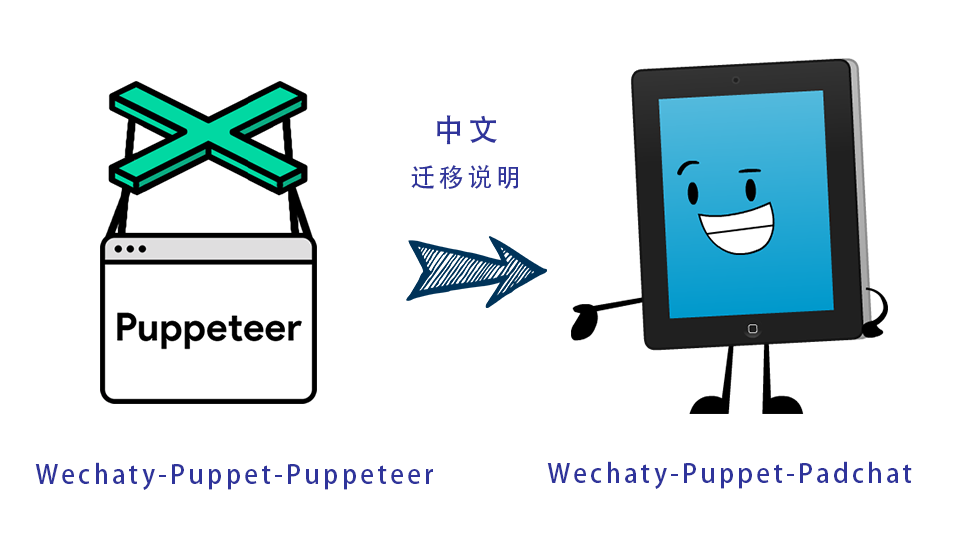
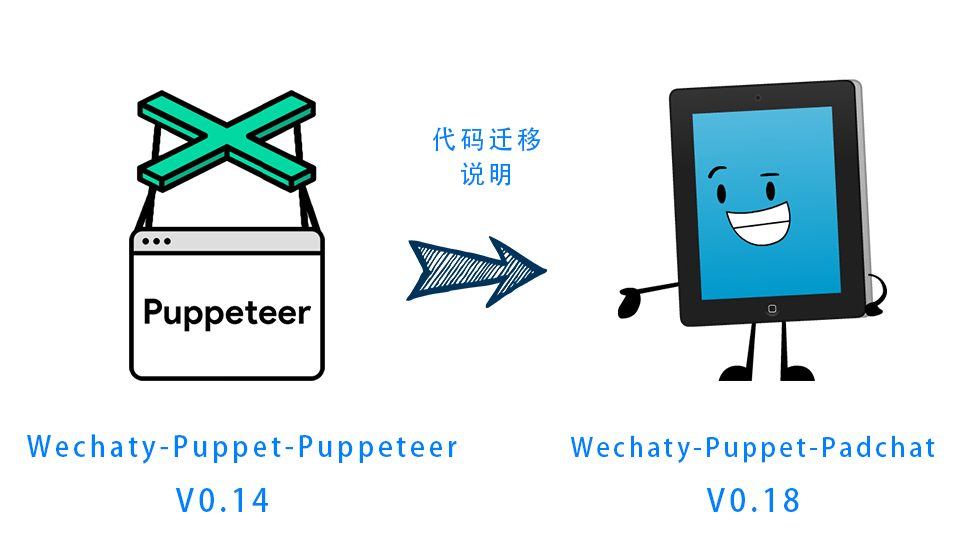
#88

diff --git a/_posts/2018-06-24-migrating&upgrading-wechaty-v0.14-to-v0.18-guide-from-puppeteer-to-padchat-en.md b/_posts/2018-06-24-migrating&upgrading-wechaty-v0.14-to-v0.18-guide-from-puppeteer-to-padchat-en.md
@@ -1,6 +1,6 @@
 ---
 layout: post
-title: Porting Code From Puppeteer To Padchat
+title: Migrating/Upgrading Wechaty v0.14 to v0.18 Guide - From Puppeteer To Padchat
 date: '2018-06-30 15:00:00 +0800'
 author: Li Jiarui
 published: true
